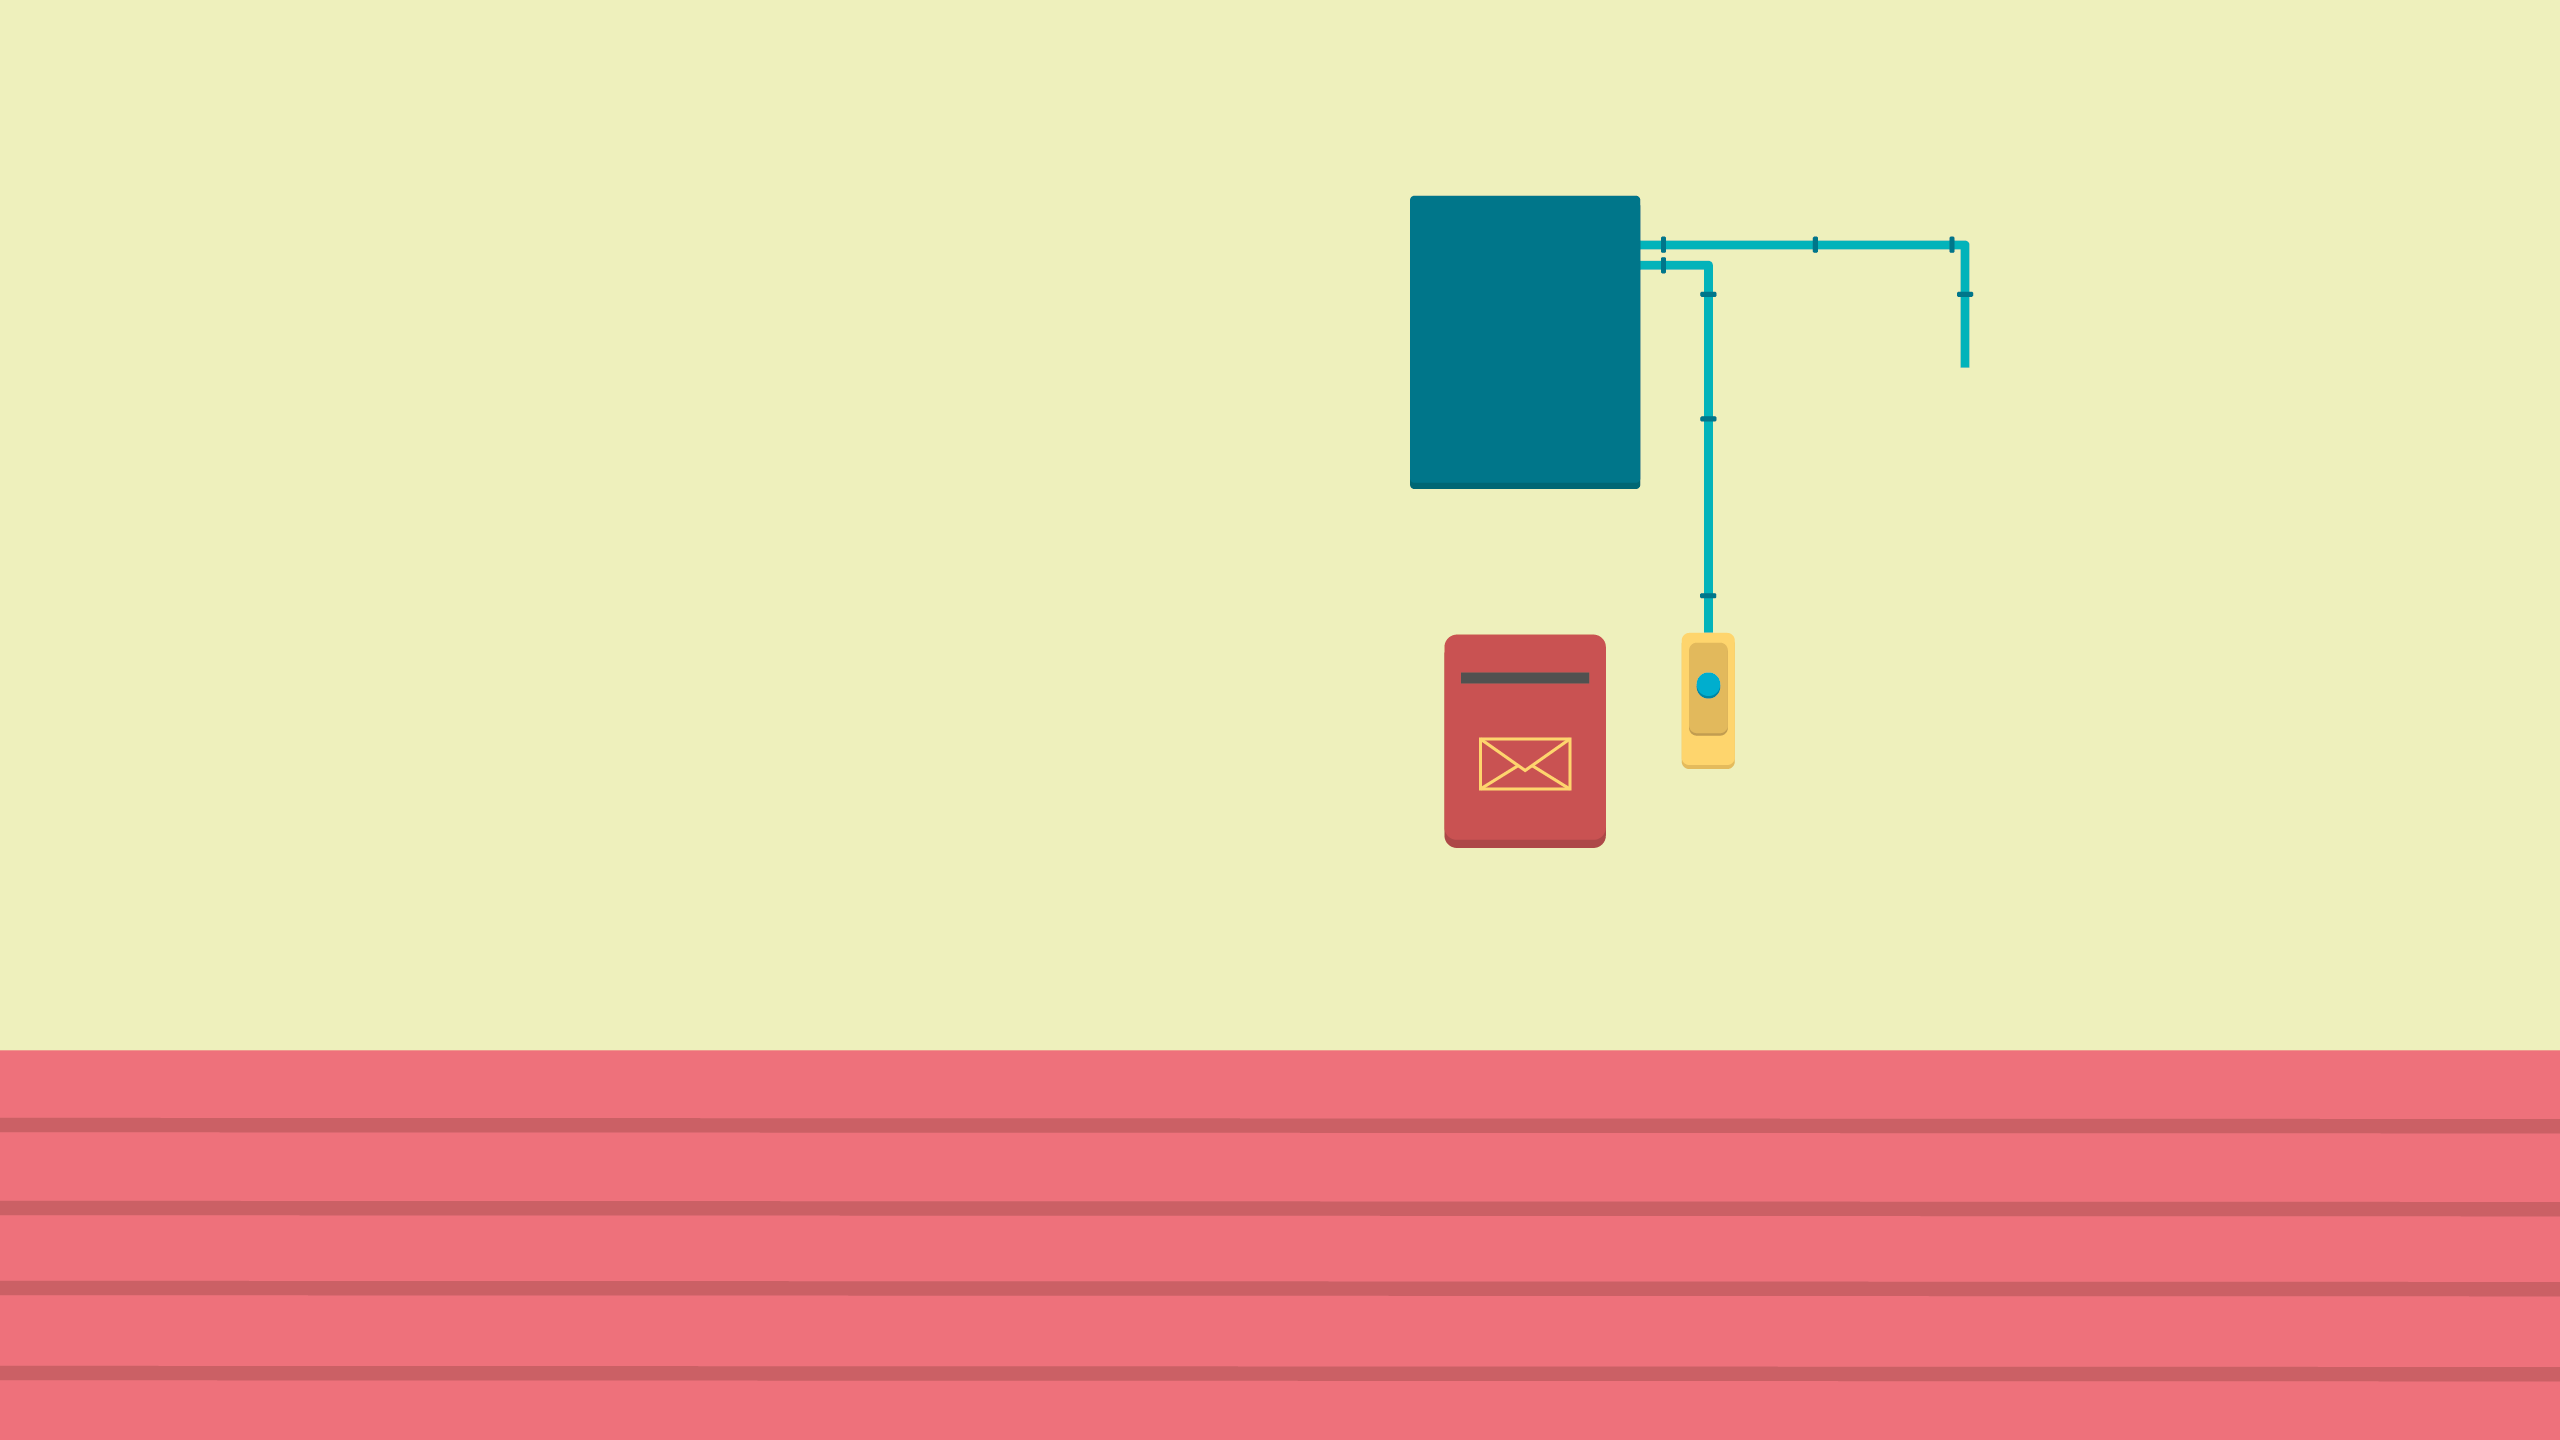
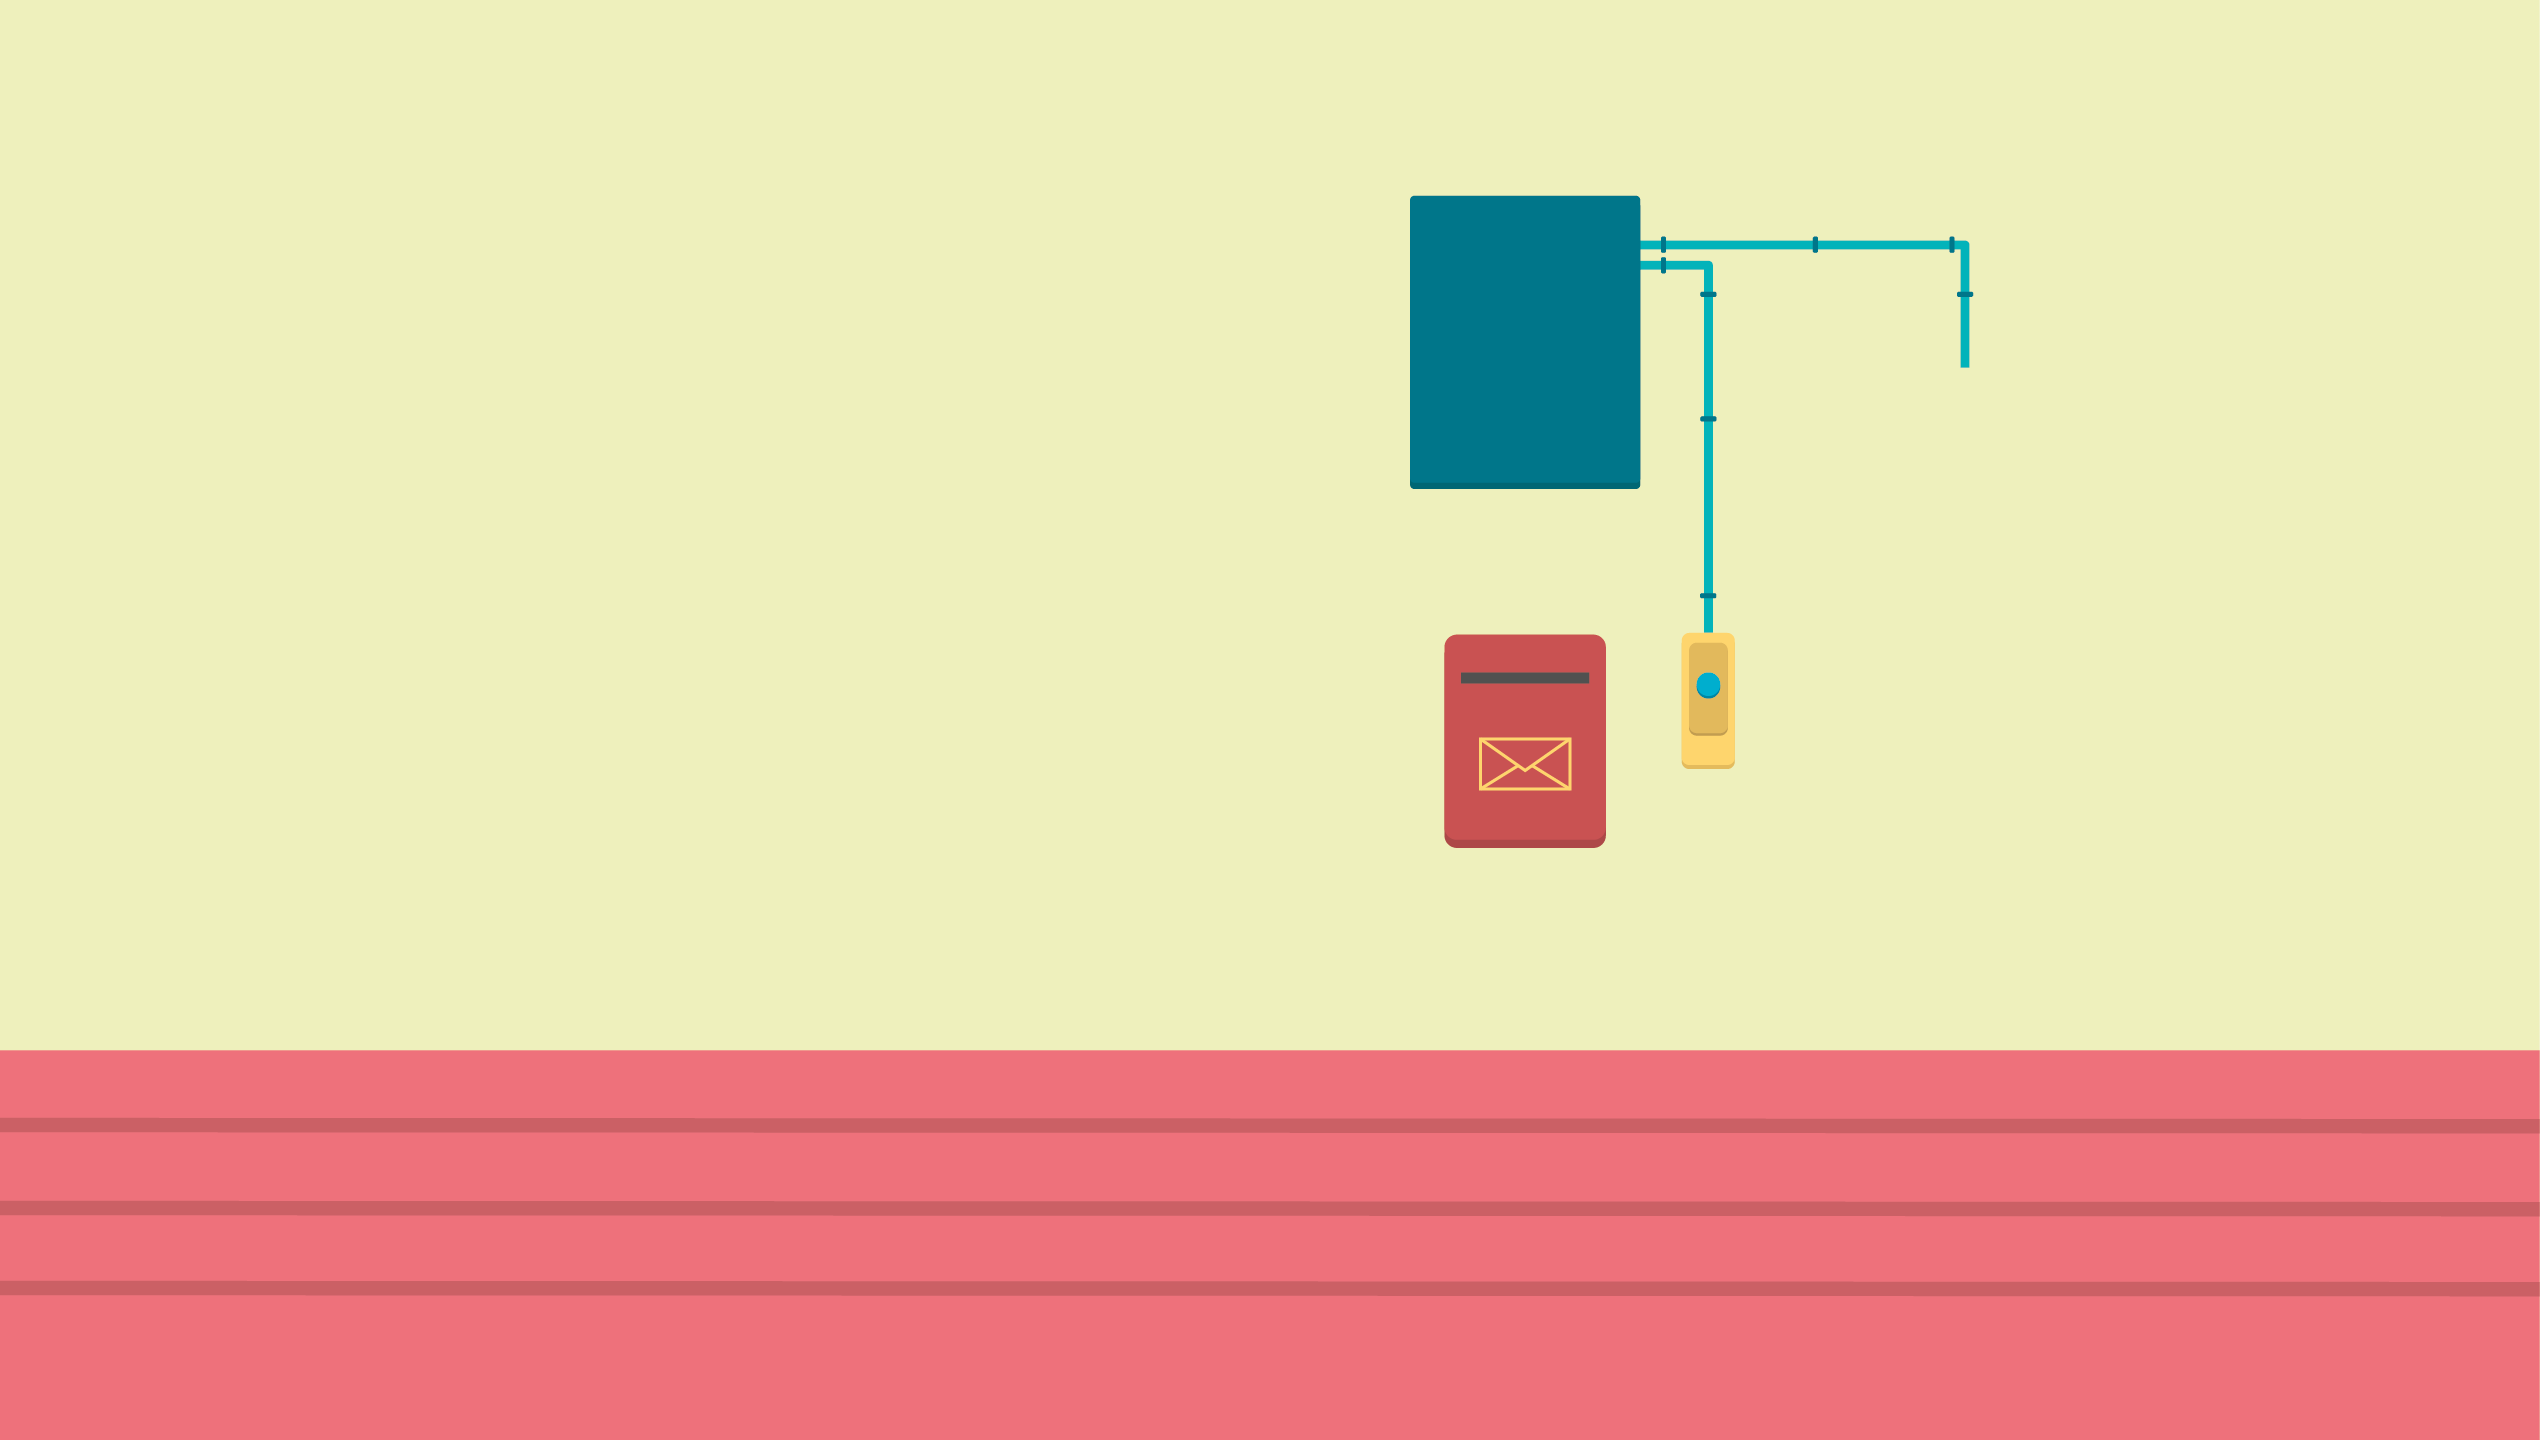
añadido esc playerbutton y el marquito

diff --git a/src/front/pages/GameContainer.jsx b/src/front/pages/GameContainer.jsx
@@ -2,7 +2,9 @@ import Timer from "../components/Timer";
 import { InfoModalUser } from "../components/InfoModalUser";
 import { useRef, useState, useEffect } from "react";
 import "../level1.css";
-import fondoNivel1 from "../assets/img/Level1_img/Level1-Background.png";
+import "../Game.css";
+import Level1BG from "../assets/img/Level1_img/Level1-Background.png";
+import FrameGame from "../assets/img/Game_img/Game-Frame.png";
 
 export default function GameContainer() {
   const [menuOpen, setMenuOpen] = useState(false);
@@ -43,13 +45,15 @@ export default function GameContainer() {
 
   return (
     <div className="game-container-bg">
-      <img src={fondoNivel1} className="bg-img" alt="Fondo Nivel 1" />
+      <img src={Level1BG} className="bg-img" alt="BG Level1" />
+      <img src={FrameGame} className="bg-frame" alt="Game Frame" />
       <button id="plant"></button>
       <button id="door"></button>
       <button id="letter"></button>
-      <button id="letterbox"></button>
+      <button id="ESC"></button>
       <button id="lock"></button>
       <button id="gearbox"></button>
+      <button id="PlayerInfo"></button>
       <div className="menu-toggle">
       <InfoModalUser className="info-modal-user" />
       <Timer className="timer" menuOpen={menuOpen} ref={timerRef} />

diff --git a/src/front/level1.css b/src/front/level1.css
@@ -2,24 +2,28 @@ body, html {
 margin: 0;
 padding: 0;
 height: 100%;
+width: 100%;
 overflow: hidden;
+background-color: #513325;
+z-index: 0;
 }
 
 .game-container-bg {
- position: absolute; 
+    position: absolute;
     top: 50%; 
-    left: 50%;
-    transform: translate(-50%, -50%); 
+    left: 50%; 
+    transform: translate(-50%, -50%);
     transform-origin: center center; 
-    width: 1920px;
-    height: 1080px;
-    overflow: hidden;
+    width: 1600px;  /* Ajustar la resolución en el futuro */
+    height: 900px; 
+    overflow: hidden; 
+    z-index: 1;
 }
 
 .bg-img {
 position: absolute;
 top: 0;
-left: 0;
+left: -0.5%;
 width: 100%;
 height: 100%;
 object-fit: cover;
@@ -29,6 +33,7 @@ z-index: 0;
 
 .game-container-bg > *:not(.bg-img) {
 position: absolute;
+z-index: 2; 
 }
 
 #door {
@@ -103,7 +108,7 @@ z-index: 1;
 
 
 .menu-toggle {
- position: fixed;
+ position: absolute; 
     top: 120px; 
     left: 40px;  
     z-index: 100;

diff --git a/src/front/Game.css b/src/front/Game.css
@@ -1,0 +1,38 @@
+.bg-frame {
+position: absolute;
+top: 0;
+left: 0;
+width: 100%;
+height: 100%;
+object-fit: cover;
+display: block;
+z-index: 1;
+}
+
+#PlayerInfo {
+left: 0%;
+top: 6%;
+width: 15%;
+height: 15%;
+background-image: url('./assets/img/Game_img/Game-Player-Button.png');
+background-color: transparent;
+background-size: contain;
+background-repeat: no-repeat;
+background-position: center;
+border: none;
+z-index: 2;
+}
+
+#ESC {
+left: 84%;
+top: 5%;
+width: 15%;
+height: 15%;
+background-image: url('./assets/img/Game_img/Game-ESC-Button.png');
+background-color: transparent;
+background-size: contain;
+background-repeat: no-repeat;
+background-position: center;
+border: none;
+z-index: 2;
+}
